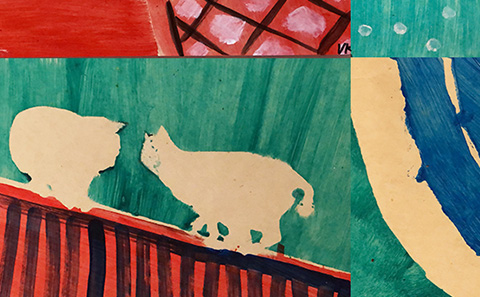
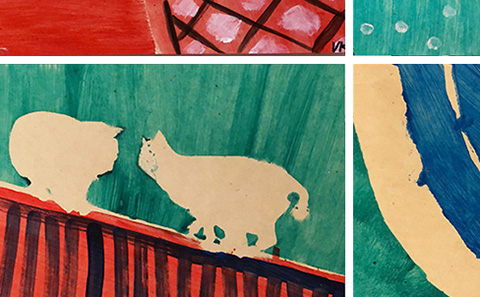
Herring, circles, path

diff --git a/templates/cartoons/9/big_text.html b/templates/cartoons/9/big_text.html
@@ -1,0 +1,12 @@
+<div>
+    <h1>Herring / Селедка</h1>
+    <div class="length">3'07"</div>
+    <div class="desc">A herring was carefree, enjoyed life and was flirting with a fisherman. A video for a cover of Ultra Bra's Hauki by <a href="https://vk.com/spelayamusic" target="_blank">
+                            Spelaя</a>.
+    </div>
+    <div class="desc">Селедка была беззаботная, наслаждалась жизнью и флиртовала с рыбаком. Клип на кавер группы <a href="https://vk.com/spelayamusic" target="_blank">
+                            Spelaя</a> песни Hauki группы Ultra Bra.
+    </div>
+     
+</div>
+

diff --git a/templates/flat/42/big_text.html b/templates/flat/42/big_text.html
@@ -1,0 +1,10 @@
+<div>
+    <h1>C'est la vie. Je n'y peux rien faire. Ça va aller.</h1>
+    <div class="length">Oil, Canvas 600x600mm</div>
+    <div class="length">2020</div>
+    <div class="desc">We are constantly surrounded by circumstances, events and obstacles that change our plans, disturb us. Walls are growing around us and we are caught in nets. But if we look careful enough these are not only boarders, these are also doors, new possibilities and ways. One only needs to move onto a new level where there are new obstacles and new possibilities.</div>
+    <div class="desc">Нас постоянно окружают обстоятельства, события, проишествия, которые меняют наши планы, мешают нам. Вокруг нас растут стены и мы запутываемся в сетях. Но если присмотреться, то это не только границы, это еще и двери, это новые возможности и пути. Достаточно перейти в новую плоскость, где ждут свои новые ограничения и свои возможности.</div>
+    <br>
+    <div class="length">Buy at 
+        <a href="https://www.saatchiart.com/art/Painting-C-est-la-vie-Je-n-y-peux-rien-faire-a-va-aller/951652/7668729/view" target="_blank"><img src="http://www.google.com/s2/favicons?domain=saatchiart.com">Saatchi Art</a></div>
+</div>

diff --git a/templates/projects/10/big_text.html b/templates/projects/10/big_text.html
@@ -1,0 +1,9 @@
+<div>
+    <h1>Slicing path / Опасная тропа</h1>
+    <div class="length">2018 in process</div>
+    <div class="desc">Some movie scenes became signatures or even common places over years. Almost everyone imagined him, her or itself passing through it as boldly and skillfully as a character does on the screen. But what would you feel and when there is a real web of lasers in front of you in a narrow passage you are invited to get through? Or when you spot a red dot on your precious body? Someone will try to do as Alice and break through with more or less grace. Someone will just pass through as there’s nothing there. Someone will fail and fall into pieces.
+    </div>
+    <div class="desc">Некоторые сцены из фильмов становятся знаковыми. Почти каждый и каждая однажды представляли себя, проходящими сквозь них так же уверенно и умело, как герои фильмов. Но что вы почувствуете6 когда вокруг вас окажется реальная сеть лазерных лучей в узком проходе, сквозь который вам предложено пройти? Или когда вы заметите красную точнку на вашем драгоценном теле? Кто-то как Элис промчится с грацией сквозь лучи. Кто-то просто пройдет, будто ничего нет. Кто-то не справится и развалится на куски.
+    </div>
+    
+</div>